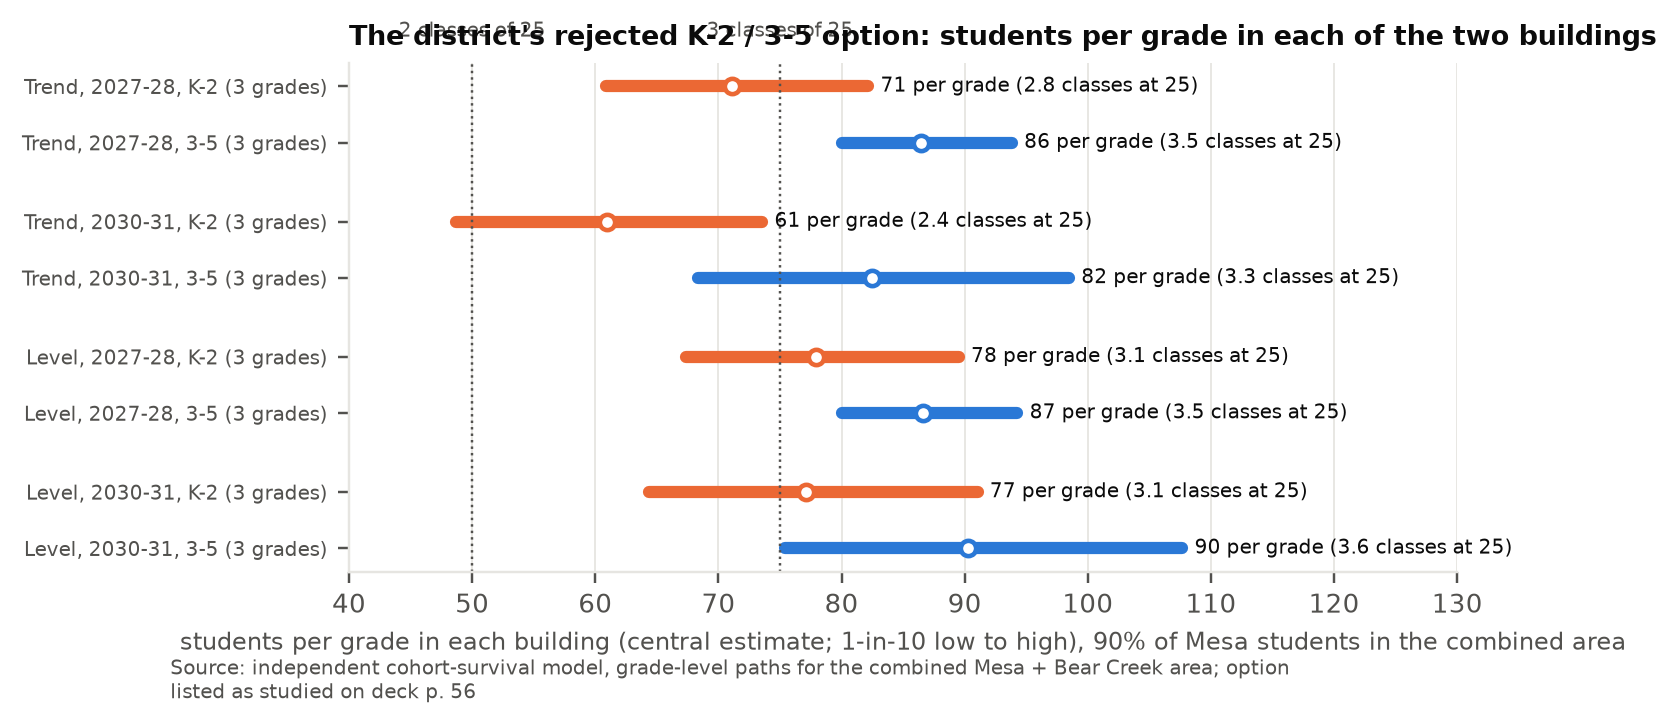
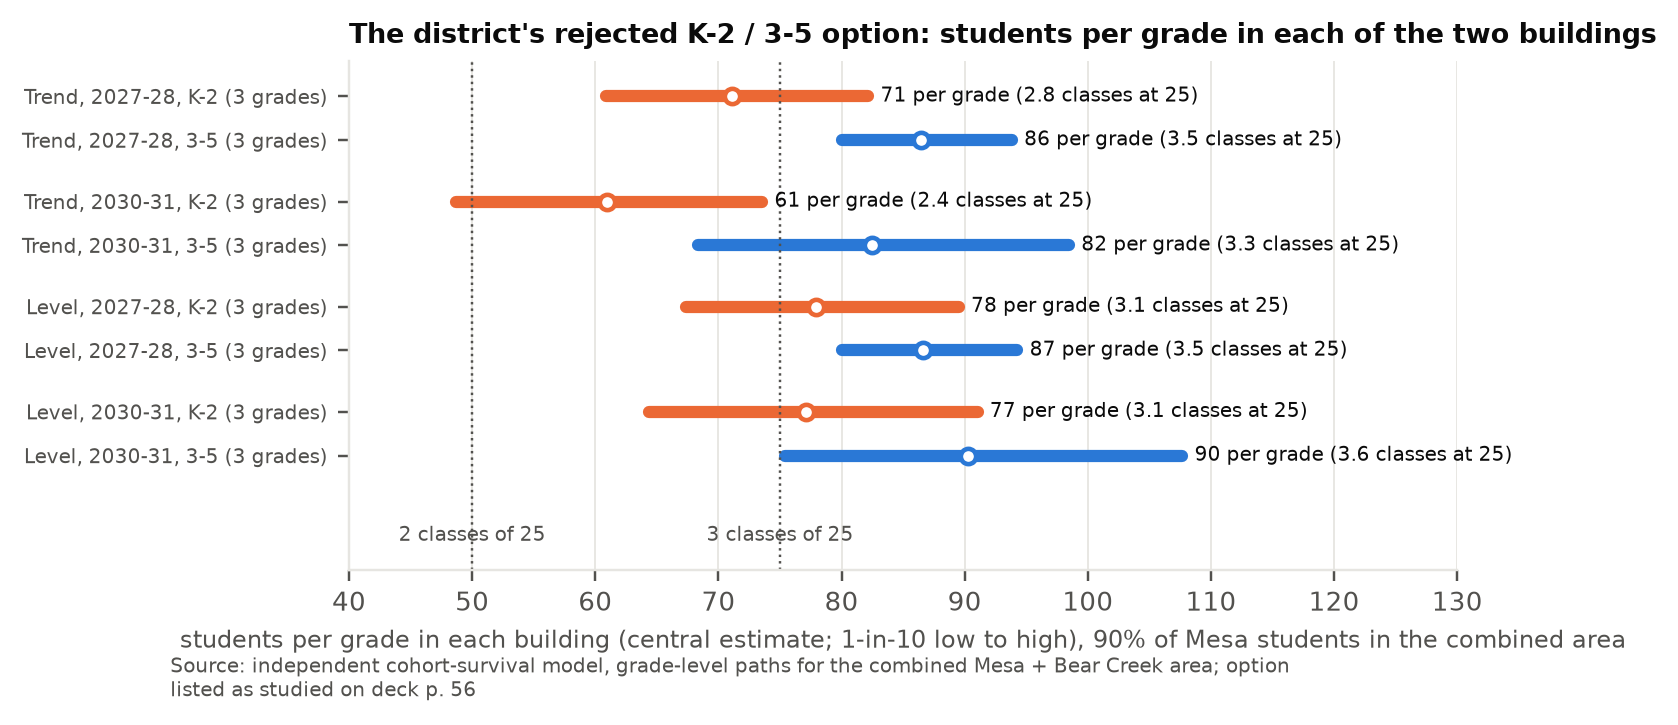
Fig 12: move threshold labels below the rows
Claude-Session: https://claude.ai/code/session_01QGnoWLhEEw7azBvxb1vxo5

diff --git a/analysis/07_reconfiguration.py b/analysis/07_reconfiguration.py
@@ -38,8 +38,8 @@ for spec in ("trend", "level"):
             ticks.append((y, f"{spec.capitalize()}, {fall}-{str(fall + 1)[2:]}, {lab}")); y -= 1
         y -= 0.4
 ax.set_yticks([t for t, _ in ticks]); ax.set_yticklabels([l for _, l in ticks], fontsize=6.5)
-ax.axvline(75, color=MUTED, lw=0.8, ls=":"); ax.text(75, 0.8, "3 classes of 25", fontsize=6.5, color=MUTED, ha="center", va="bottom")
-ax.axvline(50, color=MUTED, lw=0.8, ls=":"); ax.text(50, 0.8, "2 classes of 25", fontsize=6.5, color=MUTED, ha="center", va="bottom")
+ax.axvline(75, color=MUTED, lw=0.8, ls=":"); ax.text(75, y - 0.2, "3 classes of 25", fontsize=6.5, color=MUTED, ha="center", va="top")
+ax.axvline(50, color=MUTED, lw=0.8, ls=":"); ax.text(50, y - 0.2, "2 classes of 25", fontsize=6.5, color=MUTED, ha="center", va="top"); ax.set_ylim(y - 1.2, 0.8)
 ax.set_xlabel("students per grade in each building (central estimate; 1-in-10 low to high), 90% of Mesa students in the combined area"); ax.set_xlim(40, 130); ax.grid(axis="y", visible=False)
 ax.set_title("The district's rejected K-2 / 3-5 option: students per grade in each of the two buildings", fontsize=8.8, loc="left")
 save(fig, "fig12_reconfiguration", source="independent cohort-survival model, grade-level paths for the combined Mesa + Bear Creek area; option listed as studied on deck p. 56")
